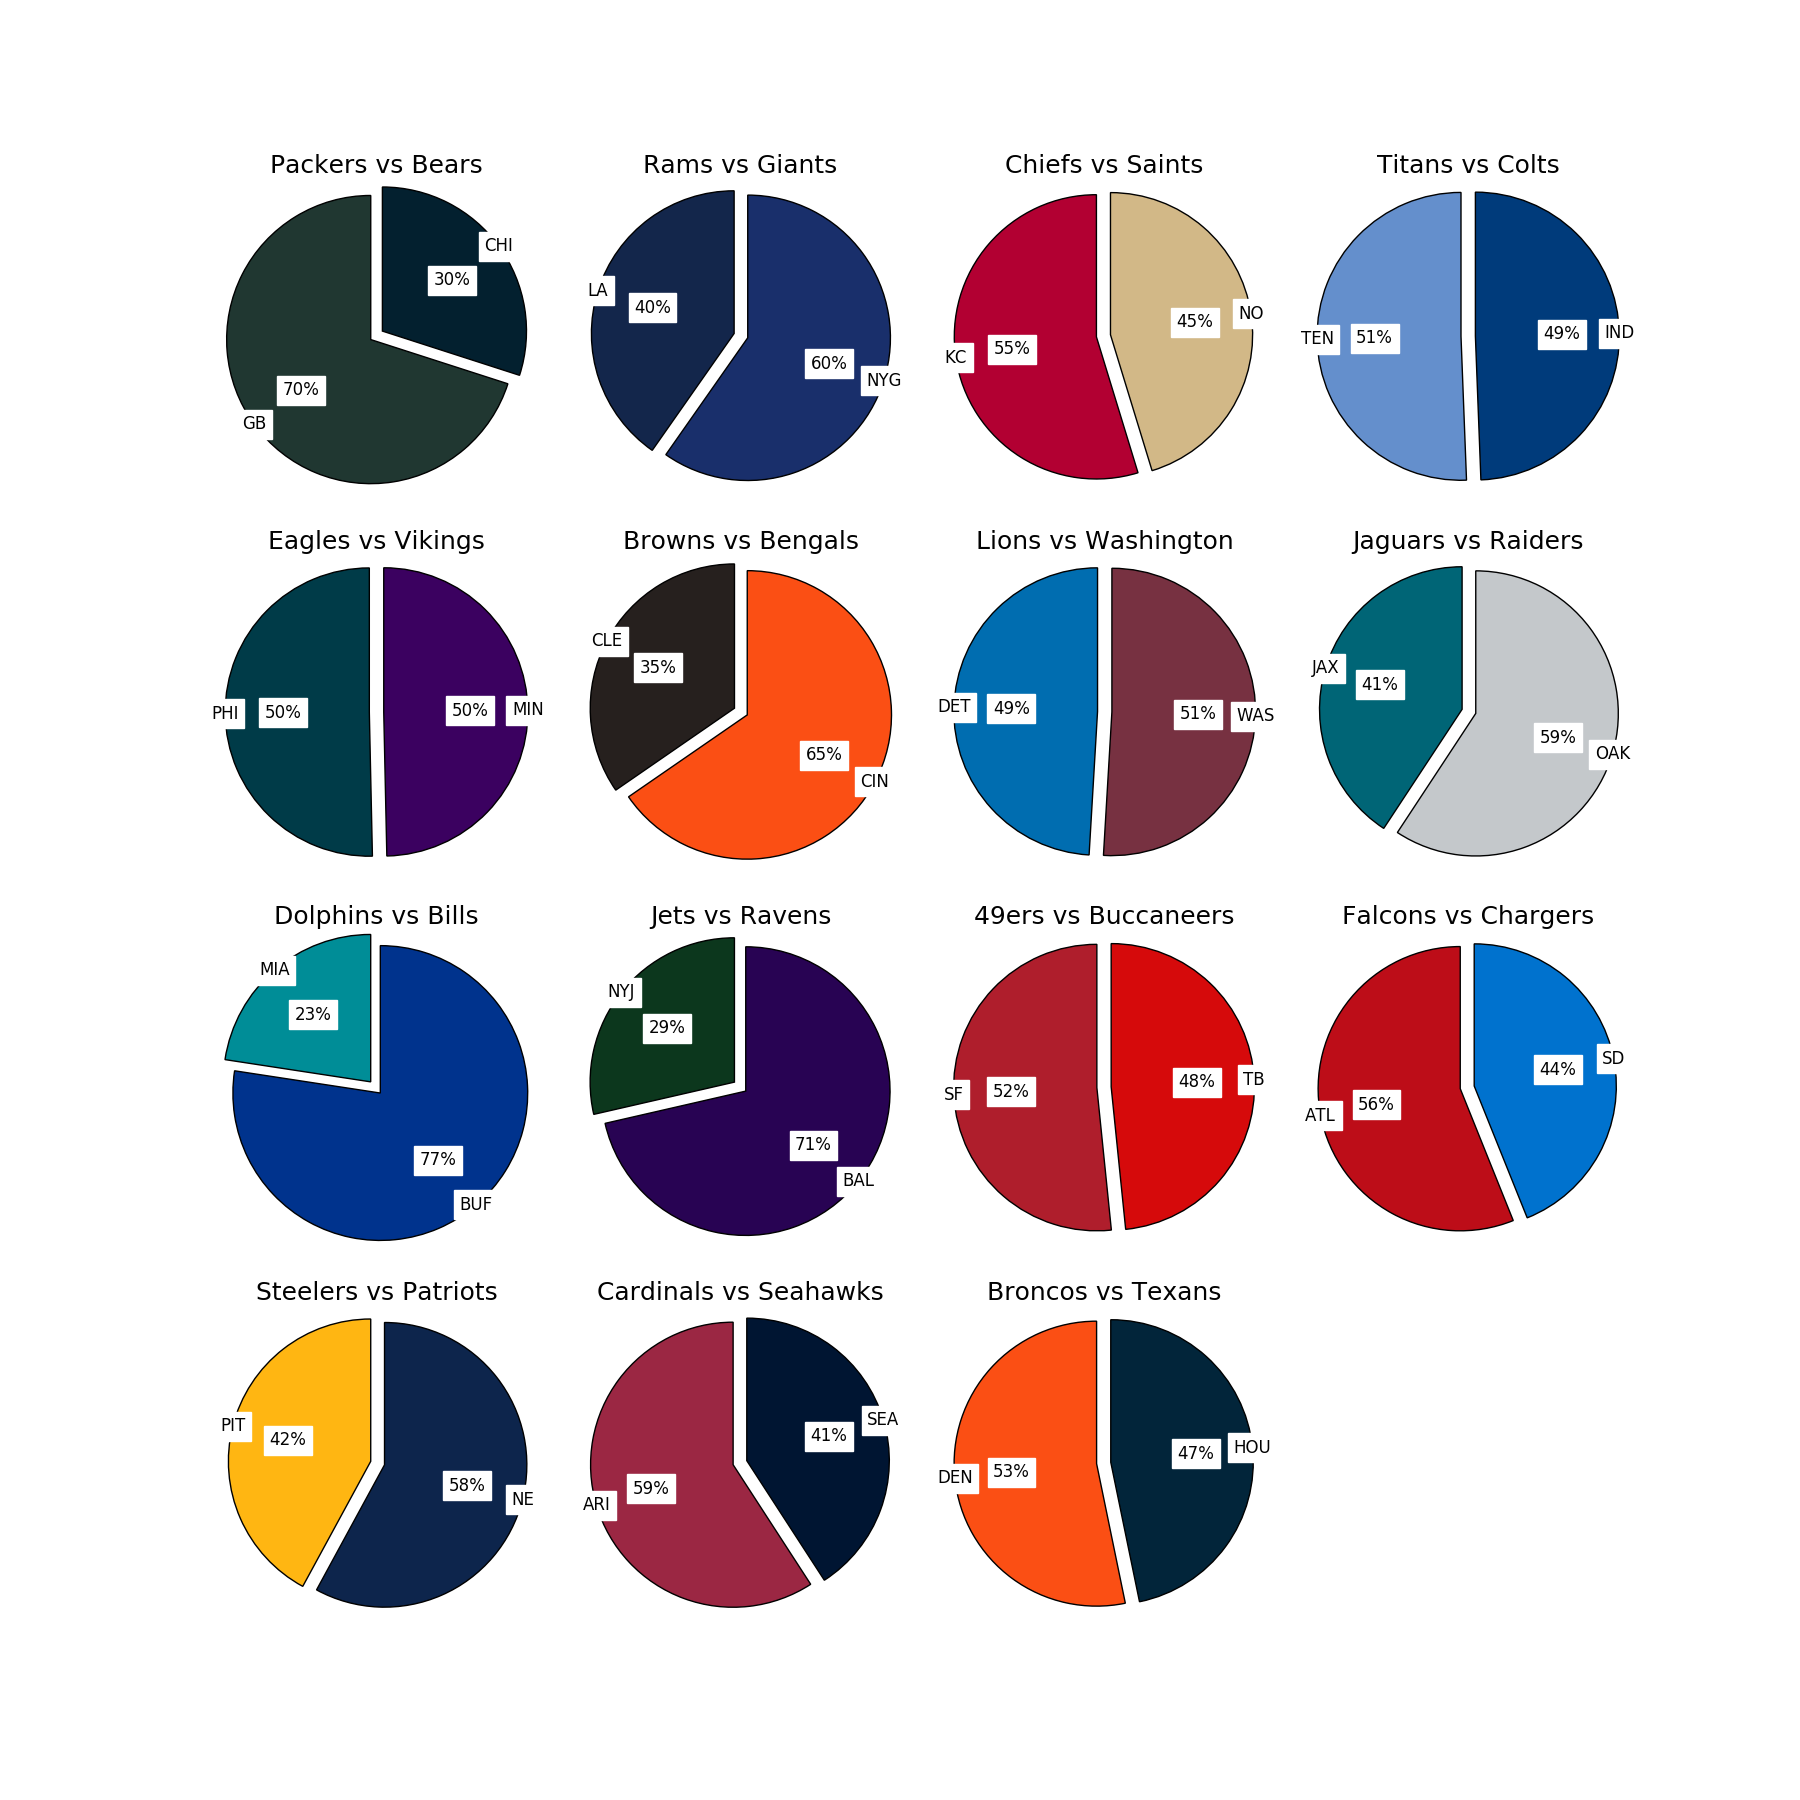
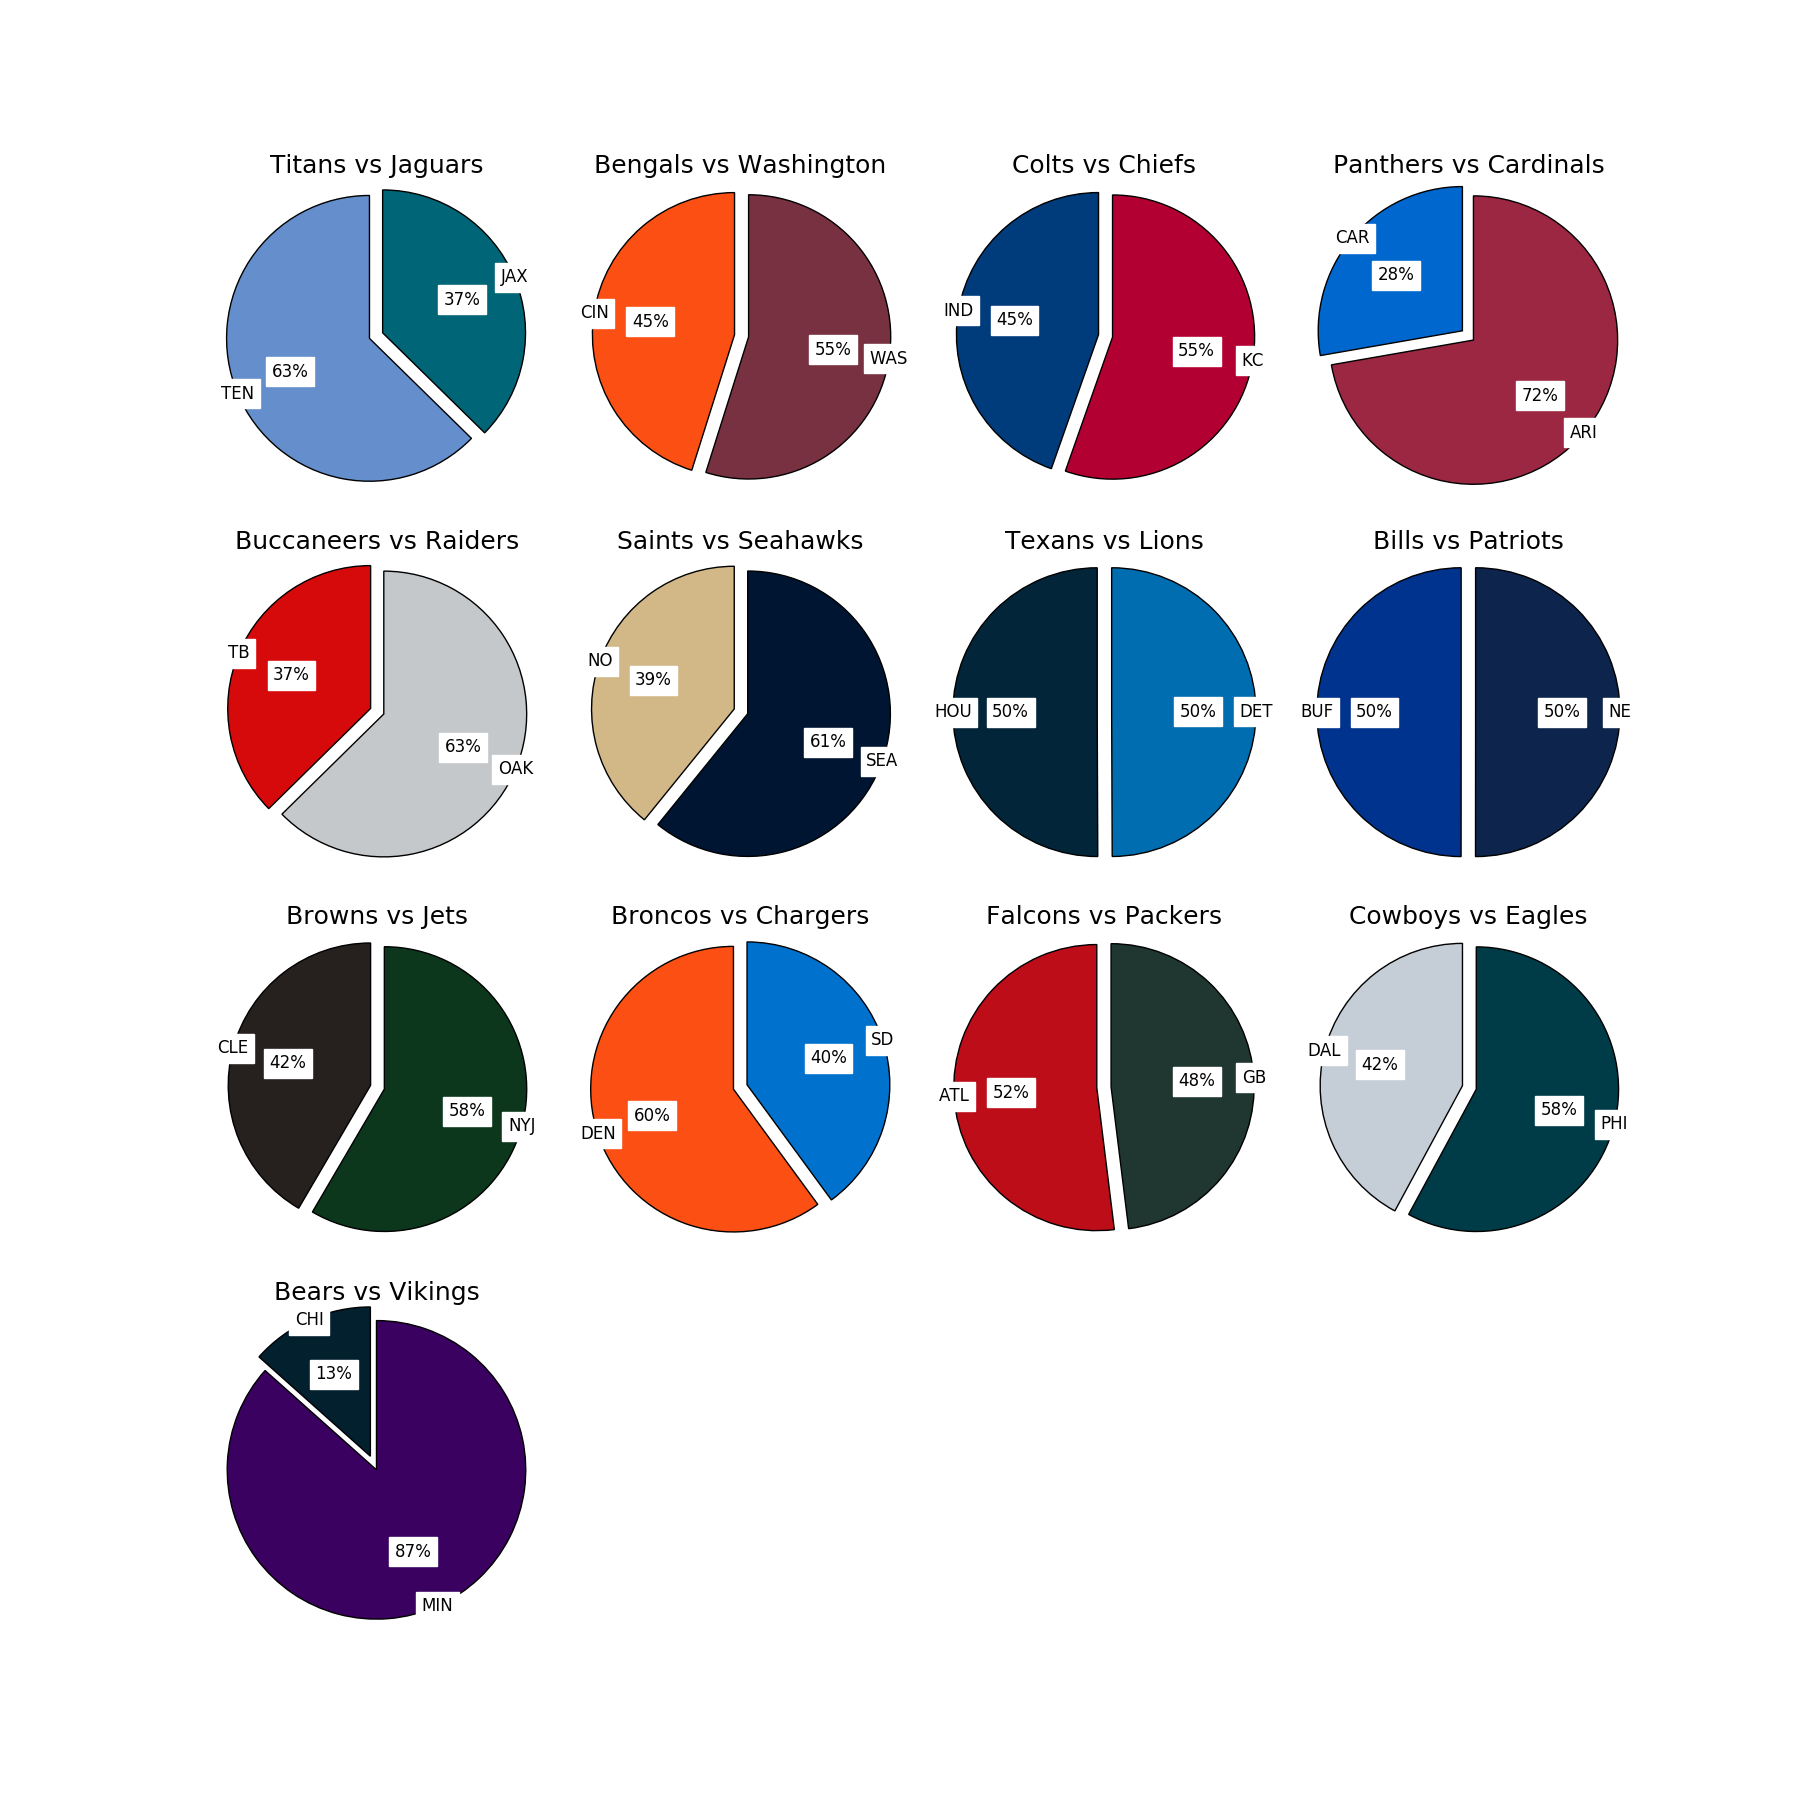
Added Week 8 Forecasts

diff --git a/NFL2016/week.py b/NFL2016/week.py
@@ -17,21 +17,19 @@ week_timer = time.time()
 week_number = '7V'
 
 matchups = collections.OrderedDict()
-matchups['Thursday Night'] = [('GB', 'CHI')]
-matchups['London'] = [('LA', 'NYG', True)]
-matchups['Sunday Morning'] = [('KC', 'NO'),
-                              ('TEN', 'IND'),
-                              ('PHI', 'MIN'),
-                              ('CLE', 'CIN'),
-                              ('DET', 'WAS'),
-                              ('JAX', 'OAK'),
-                              ('MIA', 'BUF'),
-                              ('NYJ', 'BAL')]
-matchups['Sunday Afternoon'] = [('SF', 'TB'),
-                                ('ATL', 'SD'),
-                                ('PIT', 'NE')]
-matchups['Sunday Night'] = [('ARI', 'SEA')]
-matchups['Monday Night'] = [('DEN', 'HOU')]
+matchups['Thursday Night'] = [('TEN', 'JAX')]
+matchups['London'] = [('CIN', 'WAS', True)]
+matchups['Sunday Morning'] = [('IND', 'KC'),
+                              ('CAR', 'ARI'),
+                              ('TB', 'OAK'),
+                              ('NO', 'SEA'),
+                              ('HOU', 'DET'),
+                              ('BUF', 'NE'),
+                              ('CLE', 'NYJ')]
+matchups['Sunday Afternoon'] = [('DEN', 'SD'),
+                                ('ATL', 'GB')]
+matchups['Sunday Night'] = [('DAL', 'PHI')]
+matchups['Monday Night'] = [('CHI', 'MIN')]
 
 def rgb2hex(r, g, b):
     r_hex = hex(r)[-2:].replace('x', '0')
